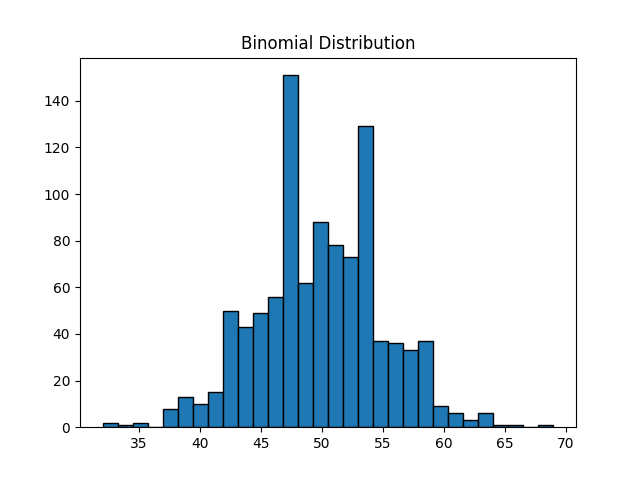
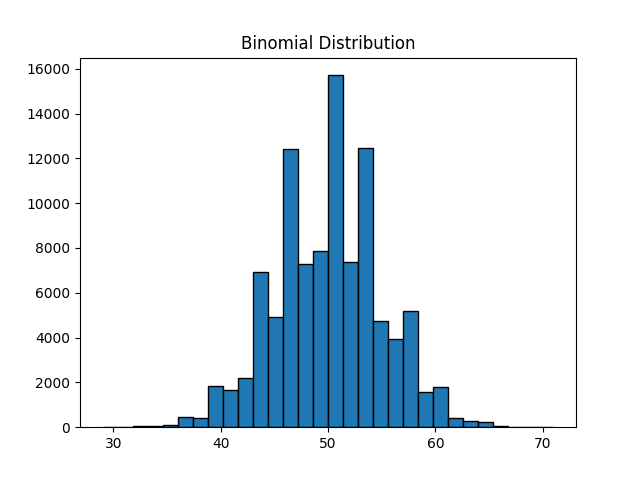
as

diff --git a/problemother.py b/problemother.py
@@ -8,19 +8,19 @@ def plot_distribution(data, title, filename):
     plt.close()
 
 # Binomial distribution
-binom_data = np.random.binomial(n=100, p=0.5, size=1000)
+binom_data = np.random.binomial(n=100, p=0.5, size=100000)
 plot_distribution(binom_data, 'Binomial Distribution', 'binomial.png')
 
 # Poisson distribution
-poisson_data = np.random.poisson(lam=5, size=1000)
+poisson_data = np.random.poisson(lam=5, size=100000)
 plot_distribution(poisson_data, 'Poisson Distribution', 'poisson.png')
 
 # Normal distribution
-normal_data = np.random.normal(loc=0, scale=1, size=1000)
+normal_data = np.random.normal(loc=0, scale=1, size=100000)
 plot_distribution(normal_data, 'Normal Distribution', 'normal.png')
 
 # Demonstrate convergence of Binomial to Normal
-large_binom_data = np.random.binomial(n=1000, p=0.5, size=1000)
+large_binom_data = np.random.binomial(n=1000, p=0.5, size=10000000)
 plot_distribution(large_binom_data, 'Large Binomial Distribution', 'large_binomial.png')
 
 # Demonstrate convergence of Normal to itself with large N
